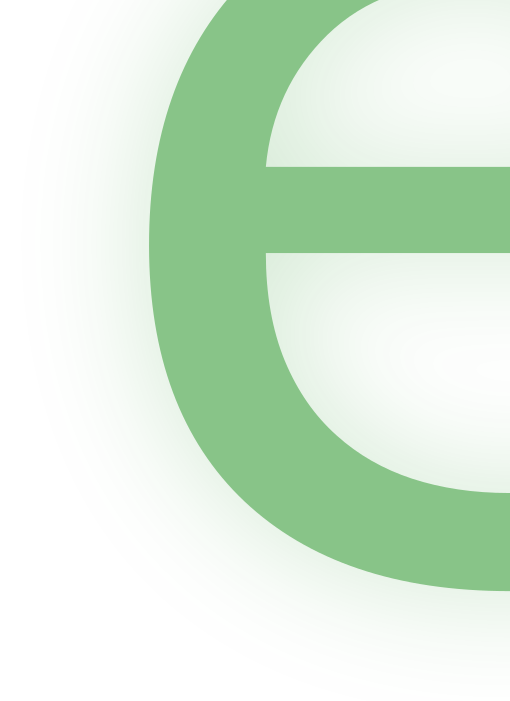
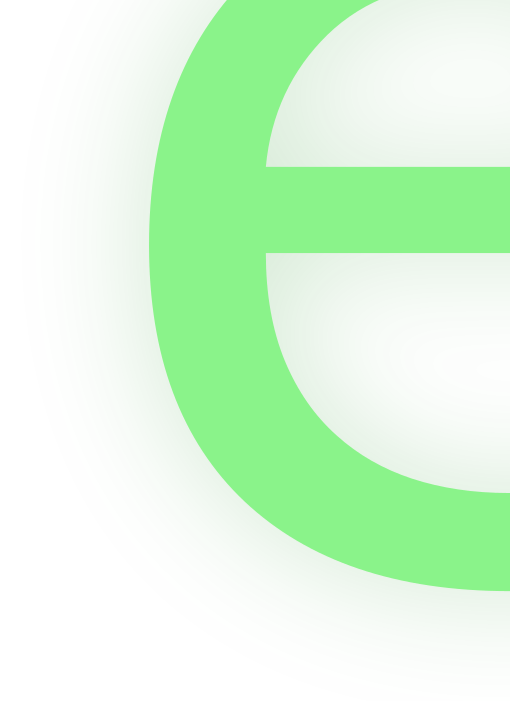
added light themes for app

Changed region(s): [[0.2941, 0.0, 1.0, 0.8688]]

diff --git a/src/App.js b/src/App.js
@@ -141,7 +141,6 @@ import next_icon_pink from './assets/next_icon_pink.png'
 import shuffle_icon_pink from './assets/shuffle_icon_pink.png'
 import repeat_icon_pink from './assets/repeat_icon_pink.png'
 import letter_pink from './assets/letter_pink.png'
-
 import alert_icon_orange from './assets/alert_icon_orange.png'
 import add_icon_orange from './assets/add_icon_orange.png'
 import background_orange from './assets/background_orange.png'
@@ -158,6 +157,23 @@ import next_icon_orange from './assets/next_icon_orange.png'
 import shuffle_icon_orange from './assets/shuffle_icon_orange.png'
 import repeat_icon_orange from './assets/repeat_icon_orange.png'
 import letter_orange from './assets/letter_orange.png'
+
+import alert_icon_darkyellow from './assets/alert_icon_darkyellow.png'
+import add_icon_darkyellow from './assets/add_icon_darkyellow.png'
+import background_darkyellow from './assets/background_darkyellow.png'
+import job_icon_darkyellow from './assets/job_icon_darkyellow.png'
+import explore_icon_darkyellow from './assets/explore_icon_darkyellow.png'
+import wallet_icon_darkyellow from './assets/wallet_icon_darkyellow.png'
+import stack_icon_darkyellow from './assets/stack_icon_darkyellow.png'
+import close_icon_darkyellow from './assets/close_icon_darkyellow.png'
+import add_text_icon_darkyellow from './assets/add_text_darkyellow.png'
+import play_icon_darkyellow from './assets/play_icon_darkyellow.png'
+import pause_icon_darkyellow from './assets/pause_icon_darkyellow.png'
+import previous_icon_darkyellow from './assets/previous_icon_darkyellow.png'
+import next_icon_darkyellow from './assets/next_icon_darkyellow.png'
+import shuffle_icon_darkyellow from './assets/shuffle_icon_darkyellow.png'
+import repeat_icon_darkyellow from './assets/repeat_icon_darkyellow.png'
+import letter_darkyellow from './assets/letter_darkyellow.png'
 // import  from './assets/'
 // import  from './assets/'
 // import  from './assets/'
@@ -4287,6 +4303,7 @@ class App extends Component {
         'letter':letter,
       }
     }
+    
     else if(theme == this.getLocale()['2741']/* green */){
       return{
         'name':this.getLocale()['2741']/* green */,
@@ -4326,6 +4343,44 @@ class App extends Component {
         'letter':letter_green,
       }
     }
+    if(theme == 'light-green'){
+      return{
+        'name':'light-green',
+        'bar_shadow':'#c5e8d6','bar_color':'#03a003', 'bar_background_color':'#d4e2cc','nav_bar_color':'#dddddd', 'button_color':'#01c601', 'button_text_color':'white', 'line_color':'#01c601','linebar_background_color':'#BFBFBF',
+        
+        'homepage_background_color':'#F1F1F1','syncronizing_page_background_color':'#F1F1F1','send_receive_ether_background_color':'#F1F1F1','send_receive_ether_overlay_background':'#474747','send_receive_ether_overlay_shadow':'#CECDCD',
+        
+        'primary_text_color':'#029302','secondary_text_color':'#03a003',
+        
+        'navbar_button_selected_color':'#dcefde','primary_navbar_text_color':'#029302','secondary_navbar_text_color':'#03a003','navbar_text_shadow_color':'#5bc15b','card_background_color':'rgb(225, 225, 225,.9)','card_shadow_color':'#c5e8d6',
+        
+        'view_group_card_item_background':'#d4e2cc','tag_background_color':'#8bc68b','indexed_tag_background':'#01c601','tag_shadow':'#c5e8d6','tag_text_color':'white',
+        
+        'chart_color':'#01c601','chart_background_color':'#d4e2cc',
+  
+        'number_picker_label_color':'#d4e2cc','number_picker_label_shadow':'#c5e8d6',
+        'number_picker_power_color':'white','number_picker_power_shadow_color':'#c5e8d6','number_picker_label_text_color':'#01c601', 'number_picker_picked_label_text_color':'#444444',
+        'number_picker_power_label_text_color':'#afafaf', 'number_picker_picked_power_label_text_color':'#444444',
+        
+        'slider_color':'#03a003', 'toast_background_color':'white', 'calendar_color':'light', 'alert_icon':alert_icon_green, 'add_icon':add_icon_green, 'text_input_background':'#c6e0b8', 'text_input_color':'#393e46', 'messsage_reply_background':'white', 'markdown_theme':'light', 'pdf_theme':'light',
+
+        'background':background_green, 'JobIcon':job_icon_green, 'ExploreIcon': explore_icon_green, 'WalletIcon':wallet_icon_green, 'StackIcon': stack_icon_green,
+
+        'close':close_icon_green,
+        'clear':'',
+        'add_text':add_text_icon_green,
+
+        'play':play_icon_green,
+        'pause':pause_icon_green,
+        'previous':previous_icon_green,
+        'next':next_icon_green,
+        'shuffle':shuffle_icon_green,
+        'repeat':repeat_icon_green,
+
+        'letter':letter_green,
+      }
+    }
+
     else if(theme == 'red'){
       return{
         'name':'red',
@@ -4365,6 +4420,44 @@ class App extends Component {
         'letter':letter_red,
       }
     }
+    if(theme == 'light-red'){
+      return{
+        'name':'light-red',
+        'bar_shadow':'#f9d1d1','bar_color':'#a00803', 'bar_background_color':'#e2cdcc','nav_bar_color':'#dddddd', 'button_color':'#c60b01', 'button_text_color':'white', 'line_color':'#c60b01','linebar_background_color':'#BFBFBF',
+        
+        'homepage_background_color':'#F1F1F1','syncronizing_page_background_color':'#F1F1F1','send_receive_ether_background_color':'#F1F1F1','send_receive_ether_overlay_background':'#474747','send_receive_ether_overlay_shadow':'#CECDCD',
+        
+        'primary_text_color':'#930101','secondary_text_color':'#a00803',
+        
+        'navbar_button_selected_color':'#efdedc','primary_navbar_text_color':'#930101','secondary_navbar_text_color':'#a00803','navbar_text_shadow_color':'#c15b5b','card_background_color':'rgb(225, 225, 225,.9)','card_shadow_color':'#f9d1d1',
+        
+        'view_group_card_item_background':'#e2cdcc','tag_background_color':'#c68b8b','indexed_tag_background':'#c60b01','tag_shadow':'#f9d1d1','tag_text_color':'white',
+        
+        'chart_color':'#c60b01','chart_background_color':'#e2cdcc',
+  
+        'number_picker_label_color':'#e2cdcc','number_picker_label_shadow':'#f9d1d1',
+        'number_picker_power_color':'white','number_picker_power_shadow_color':'#f9d1d1','number_picker_label_text_color':'#c60b01', 'number_picker_picked_label_text_color':'#444444',
+        'number_picker_power_label_text_color':'#afafaf', 'number_picker_picked_power_label_text_color':'#444444',
+        
+        'slider_color':'#a00803', 'toast_background_color':'white', 'calendar_color':'light', 'alert_icon':alert_icon_red, 'add_icon':add_icon_red, 'text_input_background':'#e0b8b8', 'text_input_color':'#393e46', 'messsage_reply_background':'white', 'markdown_theme':'light', 'pdf_theme':'light',
+
+        'background':background_red, 'JobIcon':job_icon_red, 'ExploreIcon': explore_icon_red, 'WalletIcon':wallet_icon_red, 'StackIcon': stack_icon_red,
+
+        'close':close_icon_red,
+        'clear':'',
+        'add_text':add_text_icon_red,
+
+        'play':play_icon_red,
+        'pause':pause_icon_red,
+        'previous':previous_icon_red,
+        'next':next_icon_red,
+        'shuffle':shuffle_icon_red,
+        'repeat':repeat_icon_red,
+
+        'letter':letter_red,
+      }
+    }
+
     else if(theme == 'blue'){
       return{
         'name':'blue',
@@ -4404,6 +4497,44 @@ class App extends Component {
         'letter':letter_blue,
       }
     }
+    if(theme == 'light-blue'){
+      return{
+        'name':'light-blue',
+        'bar_shadow':'#bce4ff','bar_color':'#0374a0', 'bar_background_color':'#ccdce2','nav_bar_color':'#dddddd', 'button_color':'#0181c6', 'button_text_color':'white', 'line_color':'#0181c6','linebar_background_color':'#BFBFBF',
+        
+        'homepage_background_color':'#F1F1F1','syncronizing_page_background_color':'#F1F1F1','send_receive_ether_background_color':'#F1F1F1','send_receive_ether_overlay_background':'#474747','send_receive_ether_overlay_shadow':'#CECDCD',
+        
+        'primary_text_color':'#017493','secondary_text_color':'#0374a0',
+        
+        'navbar_button_selected_color':'#dce8ef','primary_navbar_text_color':'#017493','secondary_navbar_text_color':'#0374a0','navbar_text_shadow_color':'#5babc1','card_background_color':'rgb(225, 225, 225,.9)','card_shadow_color':'#d1ebf9',
+        
+        'view_group_card_item_background':'#ccdce2','tag_background_color':'#8badc6','indexed_tag_background':'#0181c6','tag_shadow':'#d1ebf9','tag_text_color':'white',
+        
+        'chart_color':'#0181c6','chart_background_color':'#ccdce2',
+  
+        'number_picker_label_color':'#ccdce2','number_picker_label_shadow':'#d1ebf9',
+        'number_picker_power_color':'white','number_picker_power_shadow_color':'#d1ebf9','number_picker_label_text_color':'#0181c6', 'number_picker_picked_label_text_color':'#444444',
+        'number_picker_power_label_text_color':'#afafaf', 'number_picker_picked_power_label_text_color':'#444444',
+        
+        'slider_color':'#0374a0', 'toast_background_color':'white', 'calendar_color':'light', 'alert_icon':alert_icon_blue, 'add_icon':add_icon_blue, 'text_input_background':'#b8d2e0', 'text_input_color':'#393e46', 'messsage_reply_background':'white', 'markdown_theme':'light', 'pdf_theme':'light',
+
+        'background':background_blue, 'JobIcon':job_icon_blue, 'ExploreIcon': explore_icon_blue, 'WalletIcon':wallet_icon_blue, 'StackIcon': stack_icon_blue,
+
+        'close':close_icon_blue,
+        'clear':'',
+        'add_text':add_text_icon_blue,
+
+        'play':play_icon_blue,
+        'pause':pause_icon_blue,
+        'previous':previous_icon_blue,
+        'next':next_icon_blue,
+        'shuffle':shuffle_icon_blue,
+        'repeat':repeat_icon_blue,
+
+        'letter':letter_blue,
+      }
+    }
+
     else if(theme == 'yellow'){
       return{
         'name':'yellow',
@@ -4443,6 +4574,44 @@ class App extends Component {
         'letter':letter_yellow,
       }
     }
+    if(theme == 'light-yellow'){
+      return{
+        'name':'light-yellow',
+        'bar_shadow':'#fdffbc','bar_color':'#9ba003', 'bar_background_color':'#e2e2cc','nav_bar_color':'#dddddd', 'button_color':'#9ba003', 'button_text_color':'white', 'line_color':'#9ba003','linebar_background_color':'#BFBFBF',
+        
+        'homepage_background_color':'#F1F1F1','syncronizing_page_background_color':'#F1F1F1','send_receive_ether_background_color':'#F1F1F1','send_receive_ether_overlay_background':'#474747','send_receive_ether_overlay_shadow':'#CECDCD',
+        
+        'primary_text_color':'#757701','secondary_text_color':'#9ba003',
+        
+        'navbar_button_selected_color':'#efefdc','primary_navbar_text_color':'#757701','secondary_navbar_text_color':'#9ba003','navbar_text_shadow_color':'#c1c05b','card_background_color':'rgb(225, 225, 225,.9)','card_shadow_color':'#DCDCDC',
+        
+        'view_group_card_item_background':'#e2e2cc','tag_background_color':'#c5c68b','indexed_tag_background':'#9ba003','tag_shadow':'#DCDCDC','tag_text_color':'white',
+        
+        'chart_color':'#9ba003','chart_background_color':'#e2e2cc',
+  
+        'number_picker_label_color':'#e2e2cc','number_picker_label_shadow':'#DCDCDC',
+        'number_picker_power_color':'white','number_picker_power_shadow_color':'#DCDCDC','number_picker_label_text_color':'#9ba003', 'number_picker_picked_label_text_color':'#444444',
+        'number_picker_power_label_text_color':'#afafaf', 'number_picker_picked_power_label_text_color':'#444444',
+        
+        'slider_color':'#9ba003', 'toast_background_color':'white', 'calendar_color':'light', 'alert_icon':alert_icon_darkyellow, 'add_icon':add_icon_darkyellow, 'text_input_background':'#dfe0b8', 'text_input_color':'#393e46', 'messsage_reply_background':'white', 'markdown_theme':'light', 'pdf_theme':'light',
+
+        'background':background_darkyellow, 'JobIcon':job_icon_darkyellow, 'ExploreIcon': explore_icon_darkyellow, 'WalletIcon':wallet_icon_darkyellow, 'StackIcon': stack_icon_darkyellow,
+
+        'close':close_icon_darkyellow,
+        'clear':'',
+        'add_text':add_text_icon_darkyellow,
+
+        'play':play_icon_darkyellow,
+        'pause':pause_icon_darkyellow,
+        'previous':previous_icon_darkyellow,
+        'next':next_icon_darkyellow,
+        'shuffle':shuffle_icon_darkyellow,
+        'repeat':repeat_icon_darkyellow,
+
+        'letter':letter_darkyellow,
+      }
+    }
+
     else if(theme == 'pink'){
       return{
         'name':'pink',
@@ -4482,6 +4651,44 @@ class App extends Component {
         'letter':letter_pink,
       }
     }
+    if(theme == 'light-pink'){
+      return{
+        'name':'light-pink',
+        'bar_shadow':'#ecbcff','bar_color':'#8e03a0', 'bar_background_color':'#decce2','nav_bar_color':'#dddddd', 'button_color':'#af01c6', 'button_text_color':'white', 'line_color':'#af01c6','linebar_background_color':'#BFBFBF',
+        
+        'homepage_background_color':'#F1F1F1','syncronizing_page_background_color':'#F1F1F1','send_receive_ether_background_color':'#F1F1F1','send_receive_ether_overlay_background':'#474747','send_receive_ether_overlay_shadow':'#CECDCD',
+        
+        'primary_text_color':'#930191','secondary_text_color':'#8e03a0',
+        
+        'navbar_button_selected_color':'#eddcef','primary_navbar_text_color':'#930191','secondary_navbar_text_color':'#8e03a0','navbar_text_shadow_color':'#b55bc1','card_background_color':'rgb(225, 225, 225,.9)','card_shadow_color':'#f2d1f9',
+        
+        'view_group_card_item_background':'#decce2','tag_background_color':'#bf8bc6','indexed_tag_background':'#af01c6','tag_shadow':'#f2d1f9','tag_text_color':'white',
+        
+        'chart_color':'#af01c6','chart_background_color':'#decce2',
+  
+        'number_picker_label_color':'#decce2','number_picker_label_shadow':'#f2d1f9',
+        'number_picker_power_color':'white','number_picker_power_shadow_color':'#f2d1f9','number_picker_label_text_color':'#af01c6', 'number_picker_picked_label_text_color':'#444444',
+        'number_picker_power_label_text_color':'#afafaf', 'number_picker_picked_power_label_text_color':'#444444',
+        
+        'slider_color':'#8e03a0', 'toast_background_color':'white', 'calendar_color':'light', 'alert_icon':alert_icon_pink, 'add_icon':add_icon_pink, 'text_input_background':'#d9b8e0', 'text_input_color':'#393e46', 'messsage_reply_background':'white', 'markdown_theme':'light', 'pdf_theme':'light',
+
+        'background':background_pink, 'JobIcon':job_icon_pink, 'ExploreIcon': explore_icon_pink, 'WalletIcon':wallet_icon_pink, 'StackIcon': stack_icon_pink,
+
+        'close':close_icon_pink,
+        'clear':'',
+        'add_text':add_text_icon_pink,
+
+        'play':play_icon_pink,
+        'pause':pause_icon_pink,
+        'previous':previous_icon_pink,
+        'next':next_icon_pink,
+        'shuffle':shuffle_icon_pink,
+        'repeat':repeat_icon_pink,
+
+        'letter':letter_pink,
+      }
+    }
+
     else if(theme == 'orange'){
       return{
         'name':'orange',
@@ -4521,7 +4728,44 @@ class App extends Component {
         'letter':letter_orange,
       }
     }
-    
+    if(theme == 'light-orange'){
+      return{
+        'name':'light-orange',
+        'bar_shadow':'#ffe2bc','bar_color':'#a05403', 'bar_background_color':'#e2d7cc','nav_bar_color':'#dddddd', 'button_color':'#c67b01', 'button_text_color':'white', 'line_color':'#c67b01','linebar_background_color':'#BFBFBF',
+        
+        'homepage_background_color':'#F1F1F1','syncronizing_page_background_color':'#F1F1F1','send_receive_ether_background_color':'#F1F1F1','send_receive_ether_overlay_background':'#474747','send_receive_ether_overlay_shadow':'#CECDCD',
+        
+        'primary_text_color':'#935b01','secondary_text_color':'#a05403',
+        
+        'navbar_button_selected_color':'#efe7dc','primary_navbar_text_color':'#935b01','secondary_navbar_text_color':'#a05403','navbar_text_shadow_color':'#c19f5b','card_background_color':'rgb(225, 225, 225,.9)','card_shadow_color':'#f9ebd1',
+        
+        'view_group_card_item_background':'#e2d7cc','tag_background_color':'#c6b18b','indexed_tag_background':'#c67b01','tag_shadow':'#f9ebd1','tag_text_color':'white',
+        
+        'chart_color':'#c67b01','chart_background_color':'#e2d7cc',
+  
+        'number_picker_label_color':'#e2d7cc','number_picker_label_shadow':'#f9ebd1',
+        'number_picker_power_color':'white','number_picker_power_shadow_color':'#f9ebd1','number_picker_label_text_color':'#c67b01', 'number_picker_picked_label_text_color':'#444444',
+        'number_picker_power_label_text_color':'#afafaf', 'number_picker_picked_power_label_text_color':'#444444',
+        
+        'slider_color':'#a05403', 'toast_background_color':'white', 'calendar_color':'light', 'alert_icon':alert_icon_orange, 'add_icon':add_icon_orange, 'text_input_background':'#e0d3b8', 'text_input_color':'#393e46', 'messsage_reply_background':'white', 'markdown_theme':'light', 'pdf_theme':'light',
+
+        'background':background_orange, 'JobIcon':job_icon_orange, 'ExploreIcon': explore_icon_orange, 'WalletIcon':wallet_icon_orange, 'StackIcon': stack_icon_orange,
+
+        'close':close_icon_orange,
+        'clear':'',
+        'add_text':add_text_icon_orange,
+
+        'play':play_icon_orange,
+        'pause':pause_icon_orange,
+        'previous':previous_icon_orange,
+        'next':next_icon_orange,
+        'shuffle':shuffle_icon_orange,
+        'repeat':repeat_icon_orange,
+
+        'letter':letter_orange,
+      }
+    }
+
     else if(theme == this.getLocale()['1593a']/* 'auto' */){
       var obj = this.get_theme_data(this.get_time_of_day_theme())
       obj['name'] = this.getLocale()['1593a']/* 'auto' */
@@ -4531,8 +4775,6 @@ class App extends Component {
   }
 
   get_time_of_day_theme(){
-    return 'orange'
-
     var hour = new Date().getHours() 
     if(hour >= 18 || hour < 7){
       if(hour >= 23 || hour < 4){
